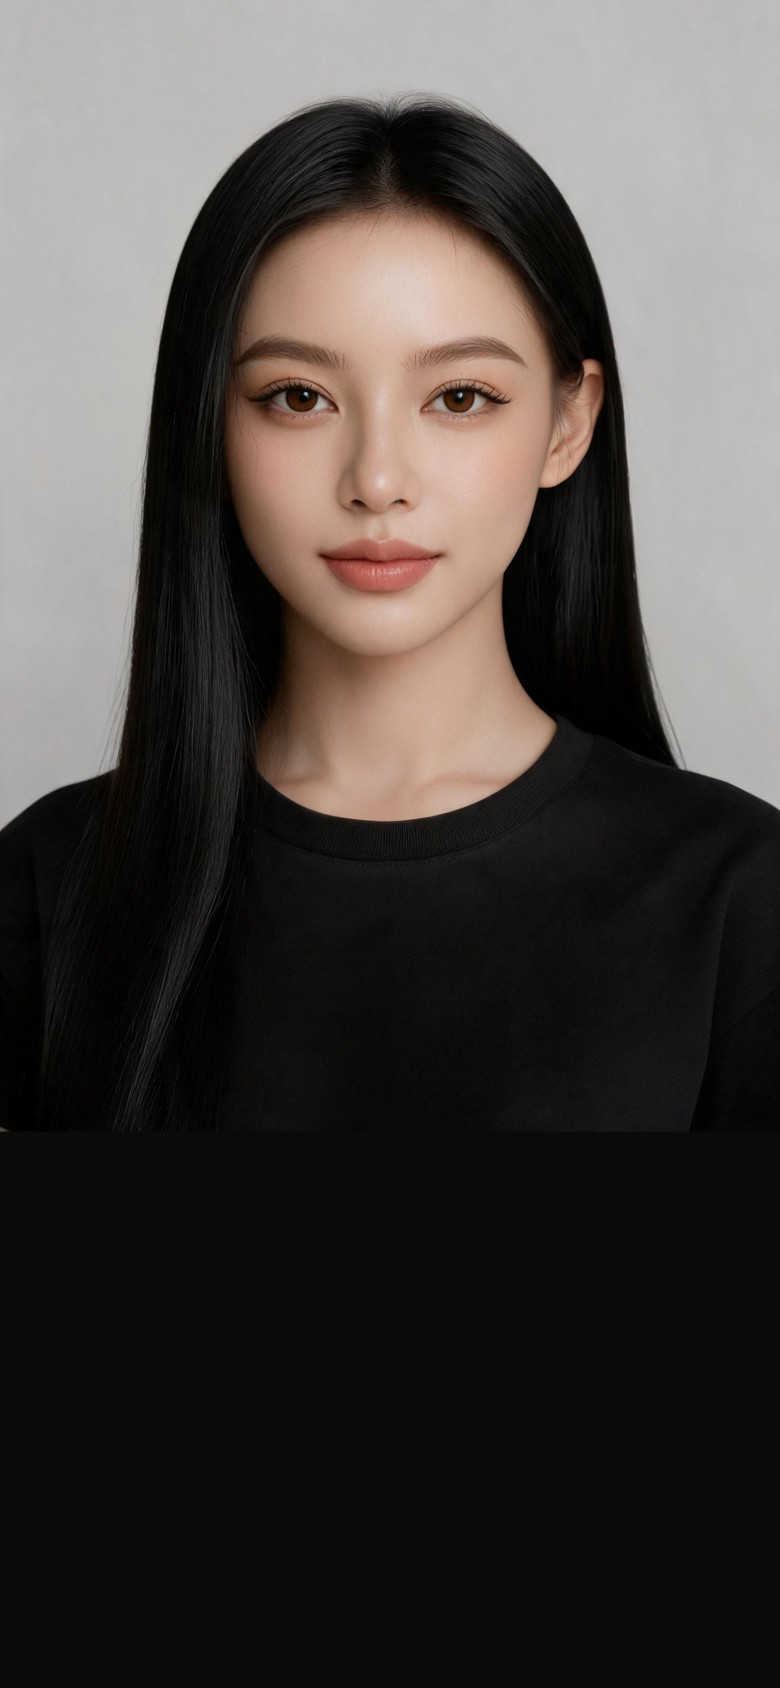
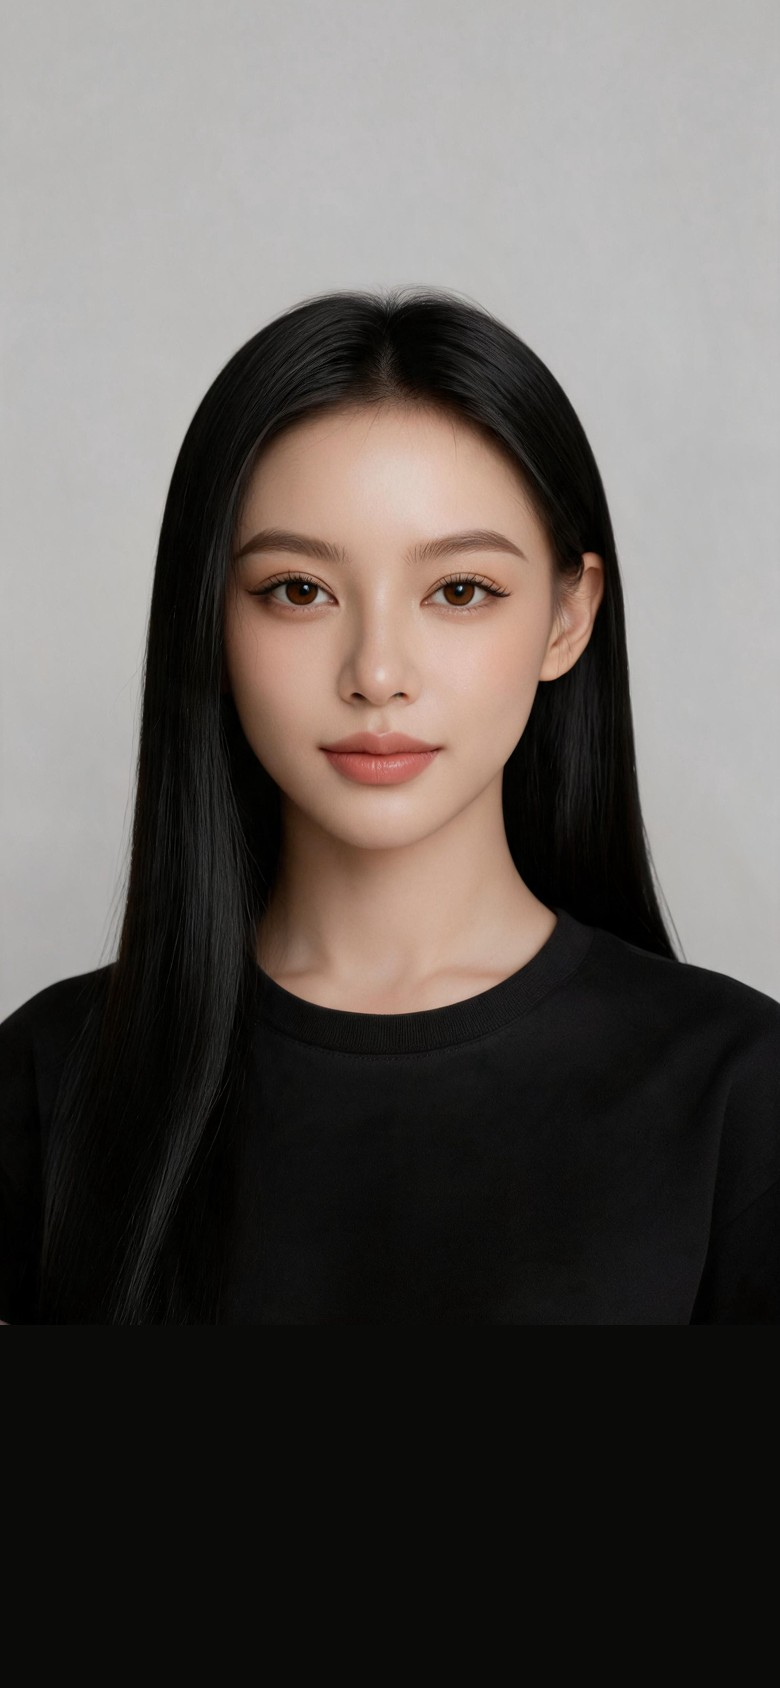
Animation adjustment

diff --git a/v5/index.html b/v5/index.html
@@ -44,7 +44,12 @@ button{font-family:inherit}
 #recHit:focus-visible{outline:2px dashed var(--gold);outline-offset:2px}
 #recHit.debug{background:rgba(255,216,58,.25);outline:1.5px dashed var(--gold)}
 #flash{position:absolute;inset:0;pointer-events:none;opacity:0}
-#flash.bad{background:radial-gradient(circle at 50% 45%,rgba(60,20,90,0) 30%,rgba(60,20,90,.75) 100%);animation:flash 520ms ease-out}
+#flash.bad{background:radial-gradient(circle at 50% 42%,rgba(18,0,28,.55) 0%,rgba(18,0,28,.8) 45%,rgba(8,0,14,.95) 100%);animation:flashBad 750ms ease-out}
+@keyframes flashBad{0%{opacity:0}10%{opacity:1}55%{opacity:1}100%{opacity:0}}
+#cam,#live{transition:filter 250ms ease}
+html.badhit #cam,html.badhit #live{filter:grayscale(.85) brightness(.55) contrast(1.1);transition:filter 120ms ease}
+html.badhit #grid{animation:badShake 380ms ease-out}
+@keyframes badShake{15%{transform:translateX(-7px)}35%{transform:translateX(6px)}55%{transform:translateX(-4px)}75%{transform:translateX(2px)}100%{transform:none}}
 #flash.rare{background:radial-gradient(circle at 50% 45%,rgba(255,220,80,.45) 0%,rgba(255,220,80,0) 70%);animation:flash 700ms ease-out}
 @keyframes flash{0%{opacity:0}20%{opacity:1}100%{opacity:0}}
 /* ---------- Phone mode: no mockup bezel / fake status bar; just the TikTok screen, full-bleed ---------- */
@@ -123,10 +128,11 @@ html.phone #devBtn{left:6px;top:4px;width:22px;height:22px;background:rgba(0,0,0
 .toast.combo{background:var(--tt-red);color:var(--white);font-size:14px;padding:4px 12px}
 @keyframes toast{0%{transform:scale(.6);opacity:0}14%{transform:scale(1.1);opacity:1}24%{transform:scale(1)}72%{opacity:1;transform:translateY(-4px)}100%{opacity:0;transform:translateY(-22px)}}
 
-#banner{position:absolute;left:0;right:0;top:62px;text-align:center;font-weight:900;font-size:26px;color:var(--gold);-webkit-text-stroke:4px var(--ink);paint-order:stroke fill;letter-spacing:.02em;animation:bannerIn 420ms cubic-bezier(.2,1.4,.4,1) both}
+#banner{position:absolute;left:0;right:0;top:62px;text-align:center;font-weight:900;font-size:26px;color:var(--gold);-webkit-text-stroke:4px var(--ink);paint-order:stroke fill;letter-spacing:.02em;animation:bannerIn 420ms cubic-bezier(.2,1.4,.4,1) both,breathe 1.8s ease-in-out 420ms infinite}
 #banner.plain{color:var(--white)}
 #bonusLine{position:absolute;left:0;right:0;top:98px;text-align:center;font-weight:800;font-size:13.5px;line-height:1.5;text-shadow:0 1px 3px rgba(0,0,0,.8);font-variant-numeric:tabular-nums}
 @keyframes bannerIn{0%{transform:scale(.3);opacity:0}100%{transform:scale(1);opacity:1}}
+@keyframes breathe{0%,100%{transform:scale(1)}50%{transform:scale(1.09)}}
 
 #results{position:absolute;left:0;right:0;top:170px;bottom:22px;display:flex;flex-direction:column;align-items:center;justify-content:flex-end;gap:12px}
 #results .label{font-weight:800;font-size:12px;letter-spacing:.14em;text-transform:uppercase;text-shadow:0 1px 3px rgba(0,0,0,.7)}
@@ -136,6 +142,7 @@ html.phone #devBtn{left:6px;top:4px;width:22px;height:22px;background:rgba(0,0,0
 .chip.rare{background:linear-gradient(135deg,var(--rare-1),var(--rare-2));color:var(--ink);text-shadow:none}
 .empty{font-weight:700;font-size:15px;text-align:center;max-width:230px;background:rgba(0,0,0,.5);padding:8px 14px;border-radius:12px}
 @keyframes chipIn{0%{transform:scale(.4) translateY(10px);opacity:0}100%{transform:none;opacity:1}}
+@keyframes chipDrift{0%,100%{transform:translate(0,0) rotate(0deg)}33%{transform:translate(var(--dx1),var(--dy1)) rotate(var(--rw))}66%{transform:translate(var(--dx2),var(--dy2)) rotate(calc(var(--rw) * -1))}}
 /* Reset: 3D arcade button, sits right of the record button (screen coords) */
 #resetBtn{position:absolute;left:290px;top:584px;width:48px;height:48px;z-index:5;border:0;padding:0;border-radius:50%;cursor:pointer;touch-action:manipulation;
   background:radial-gradient(circle at 50% 30%,#ff8a8a 0%,#ff2d3d 38%,#d3102a 72%,#a10b22 100%);
@@ -222,6 +229,7 @@ html.phone #devBtn{left:6px;top:4px;width:22px;height:22px;background:rgba(0,0,0
 [data-skin="sticker"] .card .front.t-bad{background:repeating-linear-gradient(45deg,#3a2a3f 0 8px,#2b1b2e 8px 16px)}
 [data-skin="sticker"] .card .front.t-rare{background:linear-gradient(135deg,#ffd1f0,#c9f7ff 40%,#fff6b0 70%,#e2ccff)}
 [data-skin="sticker"] .card.match .front{box-shadow:0 0 0 3px #fff,0 0 0 6px var(--mint),0 4px 8px rgba(0,0,0,.25)}
+[data-skin="sticker"] .card.match .front.t-bad{box-shadow:0 0 0 3px #fff,0 0 0 6px #9b6bff,0 0 18px #6a2bd9}
 [data-skin="sticker"] .card.miss .front{box-shadow:0 0 0 3px #fff,0 0 0 6px var(--pink)}
 [data-skin="sticker"] #timer{font:400 19px/1 "Chewy",var(--font);width:38px;height:38px;top:24px;border-radius:50%;background:var(--yolk);color:var(--ink2);box-shadow:0 0 0 3px #fff,0 3px 4px rgba(0,0,0,.25);transform:rotate(8deg)}
 [data-skin="sticker"] #timer.low{background:var(--pink);color:#fff}
@@ -234,7 +242,7 @@ html.phone #devBtn{left:6px;top:4px;width:22px;height:22px;background:rgba(0,0,0
 [data-skin="sticker"] .toast.combo{background:var(--pink);color:#fff;font-size:16px;rotate:5deg}
 [data-skin="sticker"] #instruction .pill{font:400 20px/1 "Chewy",var(--font);background:var(--yolk);color:var(--ink2);box-shadow:0 0 0 3px #fff,0 4px 6px rgba(0,0,0,.25);transform:rotate(-3deg)}
 [data-skin="sticker"] #instruction .sub{font-family:"Nunito",var(--font);font-weight:900;background:#fff;color:var(--ink2);transform:rotate(2deg)}
-[data-skin="sticker"] #banner{font:400 28px/1.05 "Chewy",var(--font);text-wrap:balance;padding:0 6px;color:var(--yolk);-webkit-text-stroke:6px var(--pink);transform:rotate(-3deg)}
+[data-skin="sticker"] #banner{font:400 28px/1.05 "Chewy",var(--font);text-wrap:balance;padding:0 6px;color:var(--yolk);-webkit-text-stroke:6px var(--pink)}
 [data-skin="sticker"] #bonusLine{font-family:"Nunito",var(--font);font-weight:900}
 [data-skin="sticker"] #results .label{font:400 20px/1 "Chewy",var(--font);letter-spacing:.02em;text-transform:none;color:#fff;-webkit-text-stroke:5px var(--ink2);paint-order:stroke fill;text-shadow:none}
 [data-skin="sticker"].is-result #banner{top:70px}
@@ -273,7 +281,7 @@ html.phone #devBtn{left:6px;top:4px;width:22px;height:22px;background:rgba(0,0,0
 [data-skin="deco"] .chip.bad{background:#1a0510;color:#ffb3c4;box-shadow:inset 0 0 0 1px var(--crim)}
 [data-skin="deco"] .chip.rare{background:linear-gradient(135deg,var(--gold-2),var(--gold));color:var(--plum);text-shadow:none}
 
-@media (prefers-reduced-motion:reduce){.card .inner{transition-duration:60ms}.toast,.chip,#banner,#count .n,#flash{animation-duration:1ms}}
+@media (prefers-reduced-motion:reduce){.card .inner{transition-duration:60ms}.toast,.chip,#banner,#count .n,#flash{animation-duration:1ms!important;animation-iteration-count:1!important}}
 </style>
 </head>
 <body>
@@ -281,7 +289,7 @@ html.phone #devBtn{left:6px;top:4px;width:22px;height:22px;background:rgba(0,0,0
 <div id="stage">
   <img id="bg" src="assets/background.png" alt="">
   <div id="screen">
-    <img id="cam" src="assets/camera-photo.jpg?v=2" alt="">
+    <img id="cam" src="assets/camera-photo.jpg?v=3" alt="">
     <video id="live" playsinline muted autoplay></video>
     <div id="sbar"></div>
     <div id="game">
@@ -567,7 +575,7 @@ function resetAll(){
 
 /* Card back colours (Lucky Charm skin). 'mixed' = every card different; 'single' = one random colour per round */
 const BACK_COLORS=['#ff5fa2','#ffb35c','#8fd3ff','#7ef0b0','#c8a8ff'];   // pink, orange-yellow, blue, green, purple
-let backMode='single';
+let backMode='mixed';
 function pickRoundColor(){
   const pool=BACK_COLORS.filter(c=>c!==S.roundColor);               // never the same colour twice in a row
   S.roundColor=pool[Math.random()*pool.length|0];
@@ -644,7 +652,9 @@ function onMatch(i,j,k){
     S.pts.bad -= cfg.badPenalty;
     setCombo(0);
     toast(`+ ${k.emoji} ${k.label}`, 'bad');
-    restart(flashEl,'bad'); flashEl.className='bad';
+    flashEl.className=''; void flashEl.offsetWidth; flashEl.className='bad';
+    const root=document.documentElement; root.classList.remove('badhit'); void root.offsetWidth; root.classList.add('badhit');
+    clearTimeout(onMatch.badT); onMatch.badT=setTimeout(()=>root.classList.remove('badhit'), 600);
     buzz([40,30,40]);
     return;
   }
@@ -742,7 +752,12 @@ function showResults(reason){
     const order={rare:0,good:1,bad:2};
     S.collected.slice().sort((a,b)=>order[a.type]-order[b.type]).forEach((k,n)=>{
       const c=document.createElement('div'); c.className='chip '+(k.type==='good'?'':k.type);
-      c.style.animationDelay=(n*70)+'ms'; c.textContent=`${k.emoji} ${k.label}`;
+      const d=n*70, rnd=(a)=>((Math.random()*2-1)*a).toFixed(1);
+      c.style.setProperty('--dx1',rnd(4)+'px'); c.style.setProperty('--dy1',rnd(5)+'px');
+      c.style.setProperty('--dx2',rnd(4)+'px'); c.style.setProperty('--dy2',rnd(5)+'px');
+      c.style.setProperty('--rw',(Math.random()<.5?-1.5:1.5)+'deg');   // wobble ±1.5°
+      c.style.animation=`chipIn 320ms cubic-bezier(.2,1.4,.4,1) ${d}ms both, chipDrift ${(2600+Math.random()*1400)|0}ms ease-in-out ${d+320}ms infinite`;
+      c.textContent=`${k.emoji} ${k.label}`;
       c.style.setProperty('--r', ((n%2?1:-1)*(1+Math.random()*3)).toFixed(1)+'deg');
       c.style.setProperty('--cc', ['#ffe14d','#8fd3ff','#7ef0b0','#c8a8ff','#ffb3d6'][n%5]);
       chipsEl.appendChild(c);
@@ -949,7 +964,7 @@ function applySkin(key, remember=true){
   if(remember){ try{ localStorage.setItem('v5.skin', skinKey); }catch(e){} }
   const r=document.getElementById('skin-'+skinKey); if(r) r.checked=true;
 }
-try{ backMode=localStorage.getItem('v5.backMode')||'single'; }catch(e){ backMode='single'; }
+try{ backMode=localStorage.getItem('v5.backMode')||'mixed'; }catch(e){ backMode='mixed'; }
 if(QS.get('back')) backMode=QS.get('back');
 document.querySelectorAll('input[name="backmode"]').forEach(r=>{
   r.checked = r.value===backMode;
